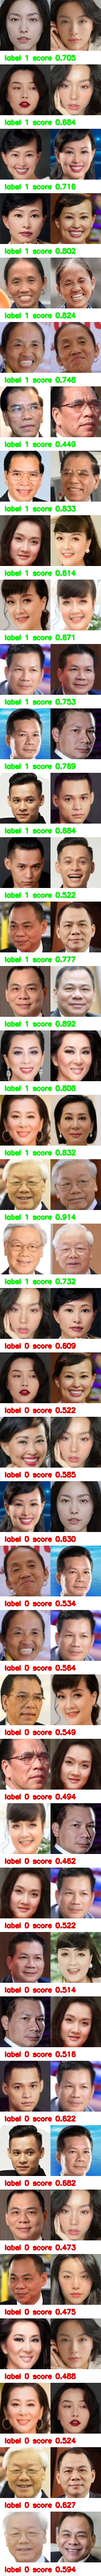
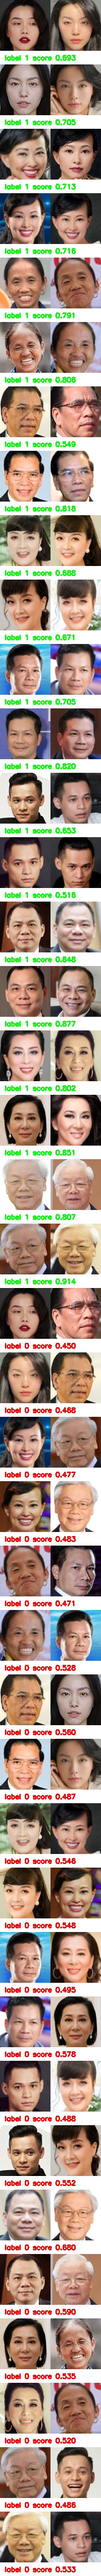
update vnfaces test

diff --git a/vnfaces_test.py b/vnfaces_test.py
@@ -21,7 +21,7 @@ from torchvision import transforms
 from numpy.random import choice
 from lightning.pytorch import Trainer, seed_everything
 
-seed_everything(0)
+seed_everything(42)
 log_root = logging.getLogger()
 log_root.setLevel(logging.INFO)
 
@@ -118,15 +118,15 @@ def main(args):
             # key = cv2.waitKey(0)
             # if key == 27: # ESC to exit
             #     break
-    threshold_range = np.arange(0, 1, 0.005)
-    acc_range = np.array([accuracy_score(labels, np.array(scores) > t) for t in threshold_range])
-    best_threshold = threshold_range[acc_range.argmax()]
-    best_acc = acc_range.max()
-    # acc = accuracy_score(labels, preds)
+    # threshold_range = np.arange(0, 1, 0.005)
+    # acc_range = np.array([accuracy_score(labels, np.array(scores) > t) for t in threshold_range])
+    # best_threshold = threshold_range[acc_range.argmax()]
+    # best_acc = acc_range.max()
+    acc = accuracy_score(labels, np.array(scores) > args.threshold)
     cv2.destroyAllWindows()
     log_img = cv2.vconcat(log_images)
     cv2.imwrite('vnfaces_test.jpg', log_img)
-    print(f"acc = {best_acc} @ {best_threshold}")
+    print(f"acc = {acc} @ {args.threshold}")
 
 
 if __name__ == "__main__":
@@ -145,5 +145,4 @@ if __name__ == "__main__":
         default="lightning_logs/ms1mv3_arcface_mbf_23-04-16-21h45/ms1mv3_arcface_mbf_best.ckpt",
     )
     parser.add_argument("--threshold", type=float, default=0.63)
-    parser.add_argument("--euclidean", action="store_true")
     main(parser.parse_args())
